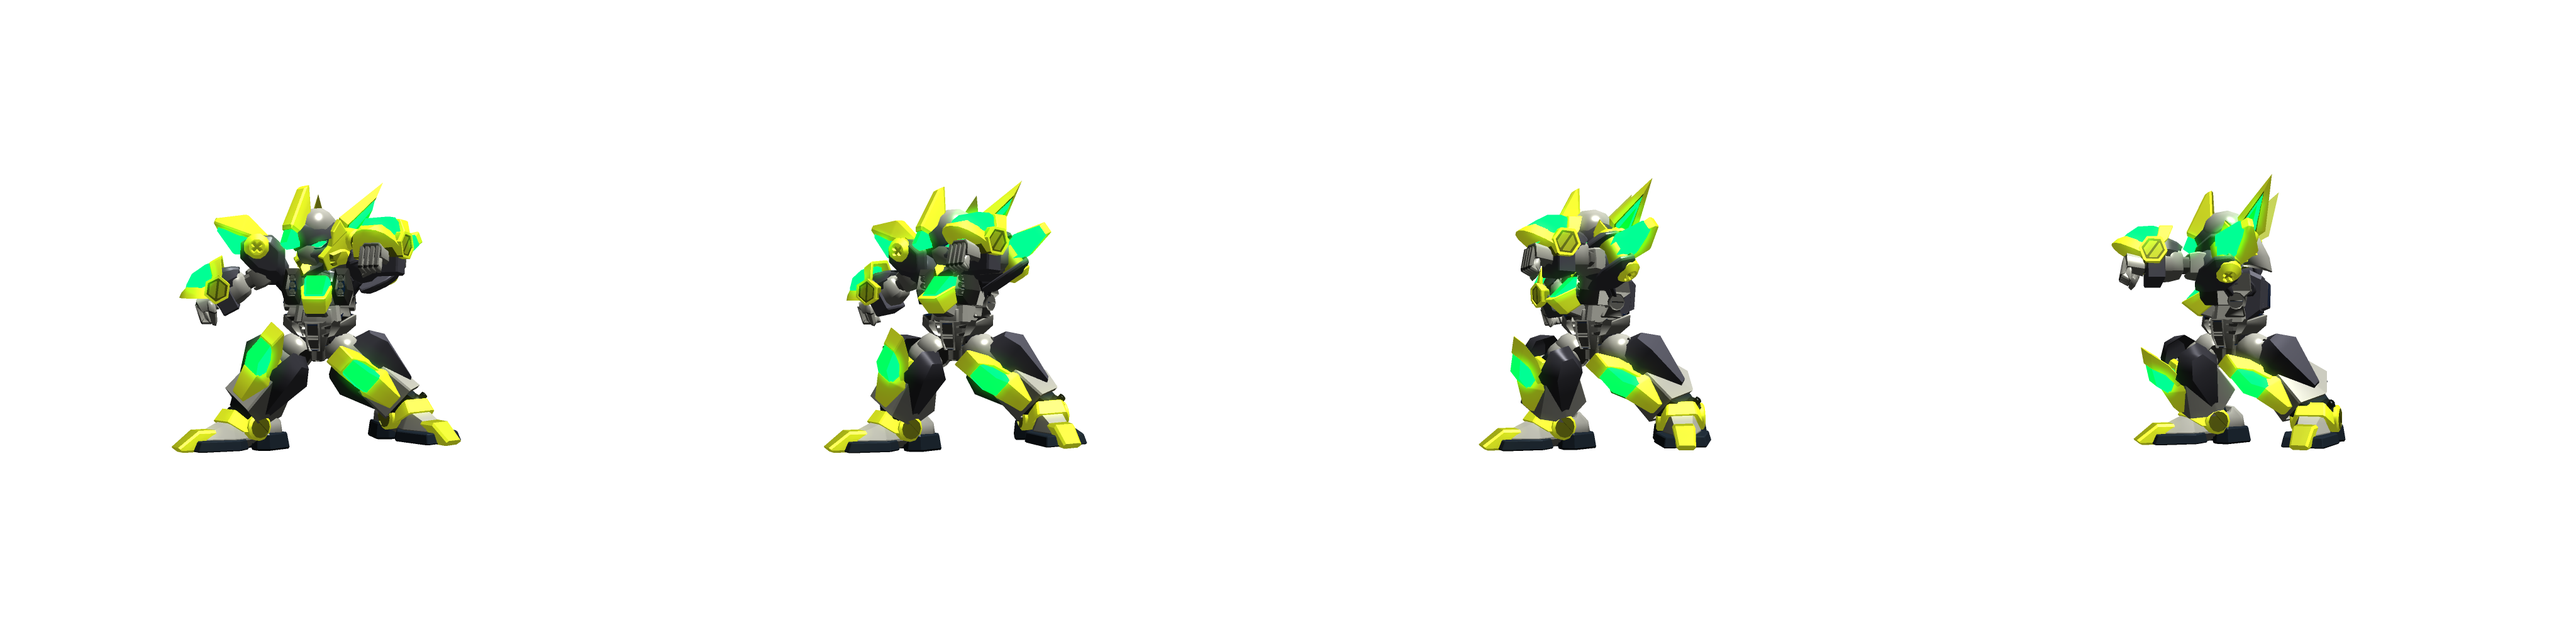
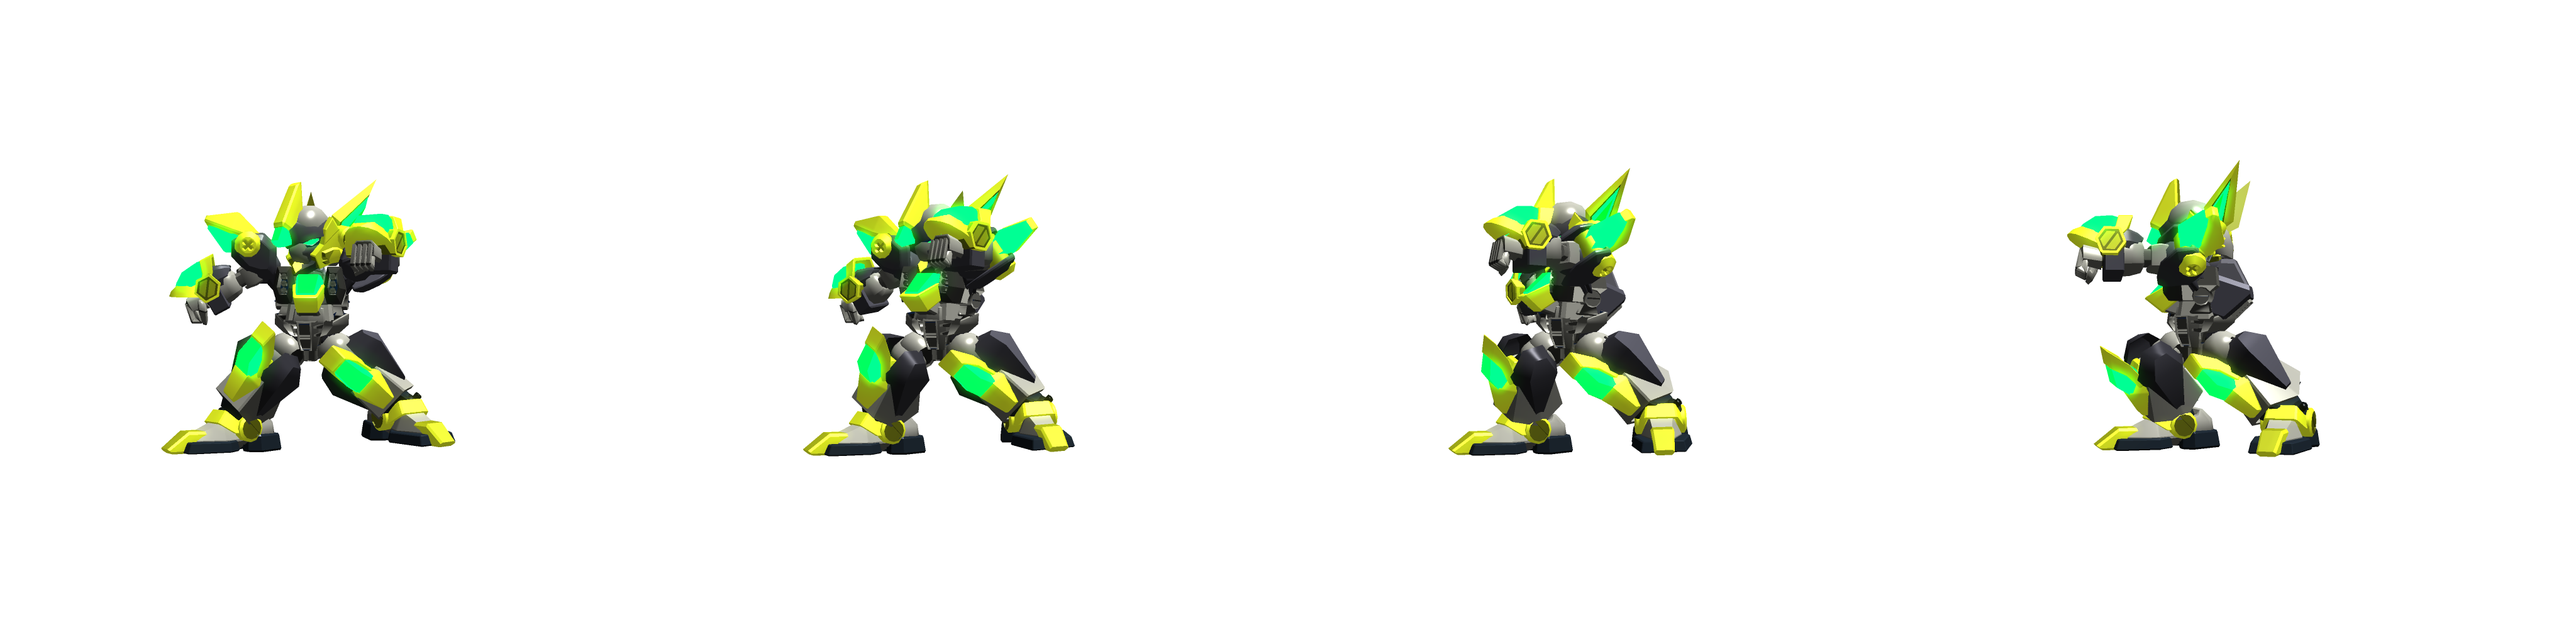
パンチ -> 立ちwebp追加

diff --git a/src/js/resource/texture/ids.js b/src/js/resource/texture/ids.js
@@ -65,6 +65,7 @@ export const TEXTURE_IDS = {
   GENESIS_BRAVER_STAND: "GENESIS_BRAVER_STAND",
   GENESIS_BRAVER_SP_CHARGE: "GENESIS_BRAVER_SP_CHARGE",
   GENESIS_BRAVER_SP_ATTACK: "GENESIS_BRAVER_SP_ATTACK",
+  GENESIS_BRAVER_SP_TO_STAND: "GENESIS_BRAVER_SP_TO_STAND",
   SHINYA_CUTIN: "SHINYA_CUTIN",
   GAI_CUTIN: "GAI_CUTIN",
   RAITO_CUTIN: "RAITO_CUTIN",

diff --git a/src/js/resource/texture/configs.js b/src/js/resource/texture/configs.js
@@ -376,4 +376,8 @@ export const DEVELOPING_TEXTURE_CONFIGS: TextureConfig[] = [
     id: TEXTURE_IDS.GENESIS_BRAVER_SP_ATTACK,
     path: "armdozer/genesis-braver/sp-attack.webp",
   },
+  {
+    id: TEXTURE_IDS.GENESIS_BRAVER_SP_TO_STAND,
+    path: "armdozer/genesis-braver/sp-to-stand.webp",
+  }
 ];
